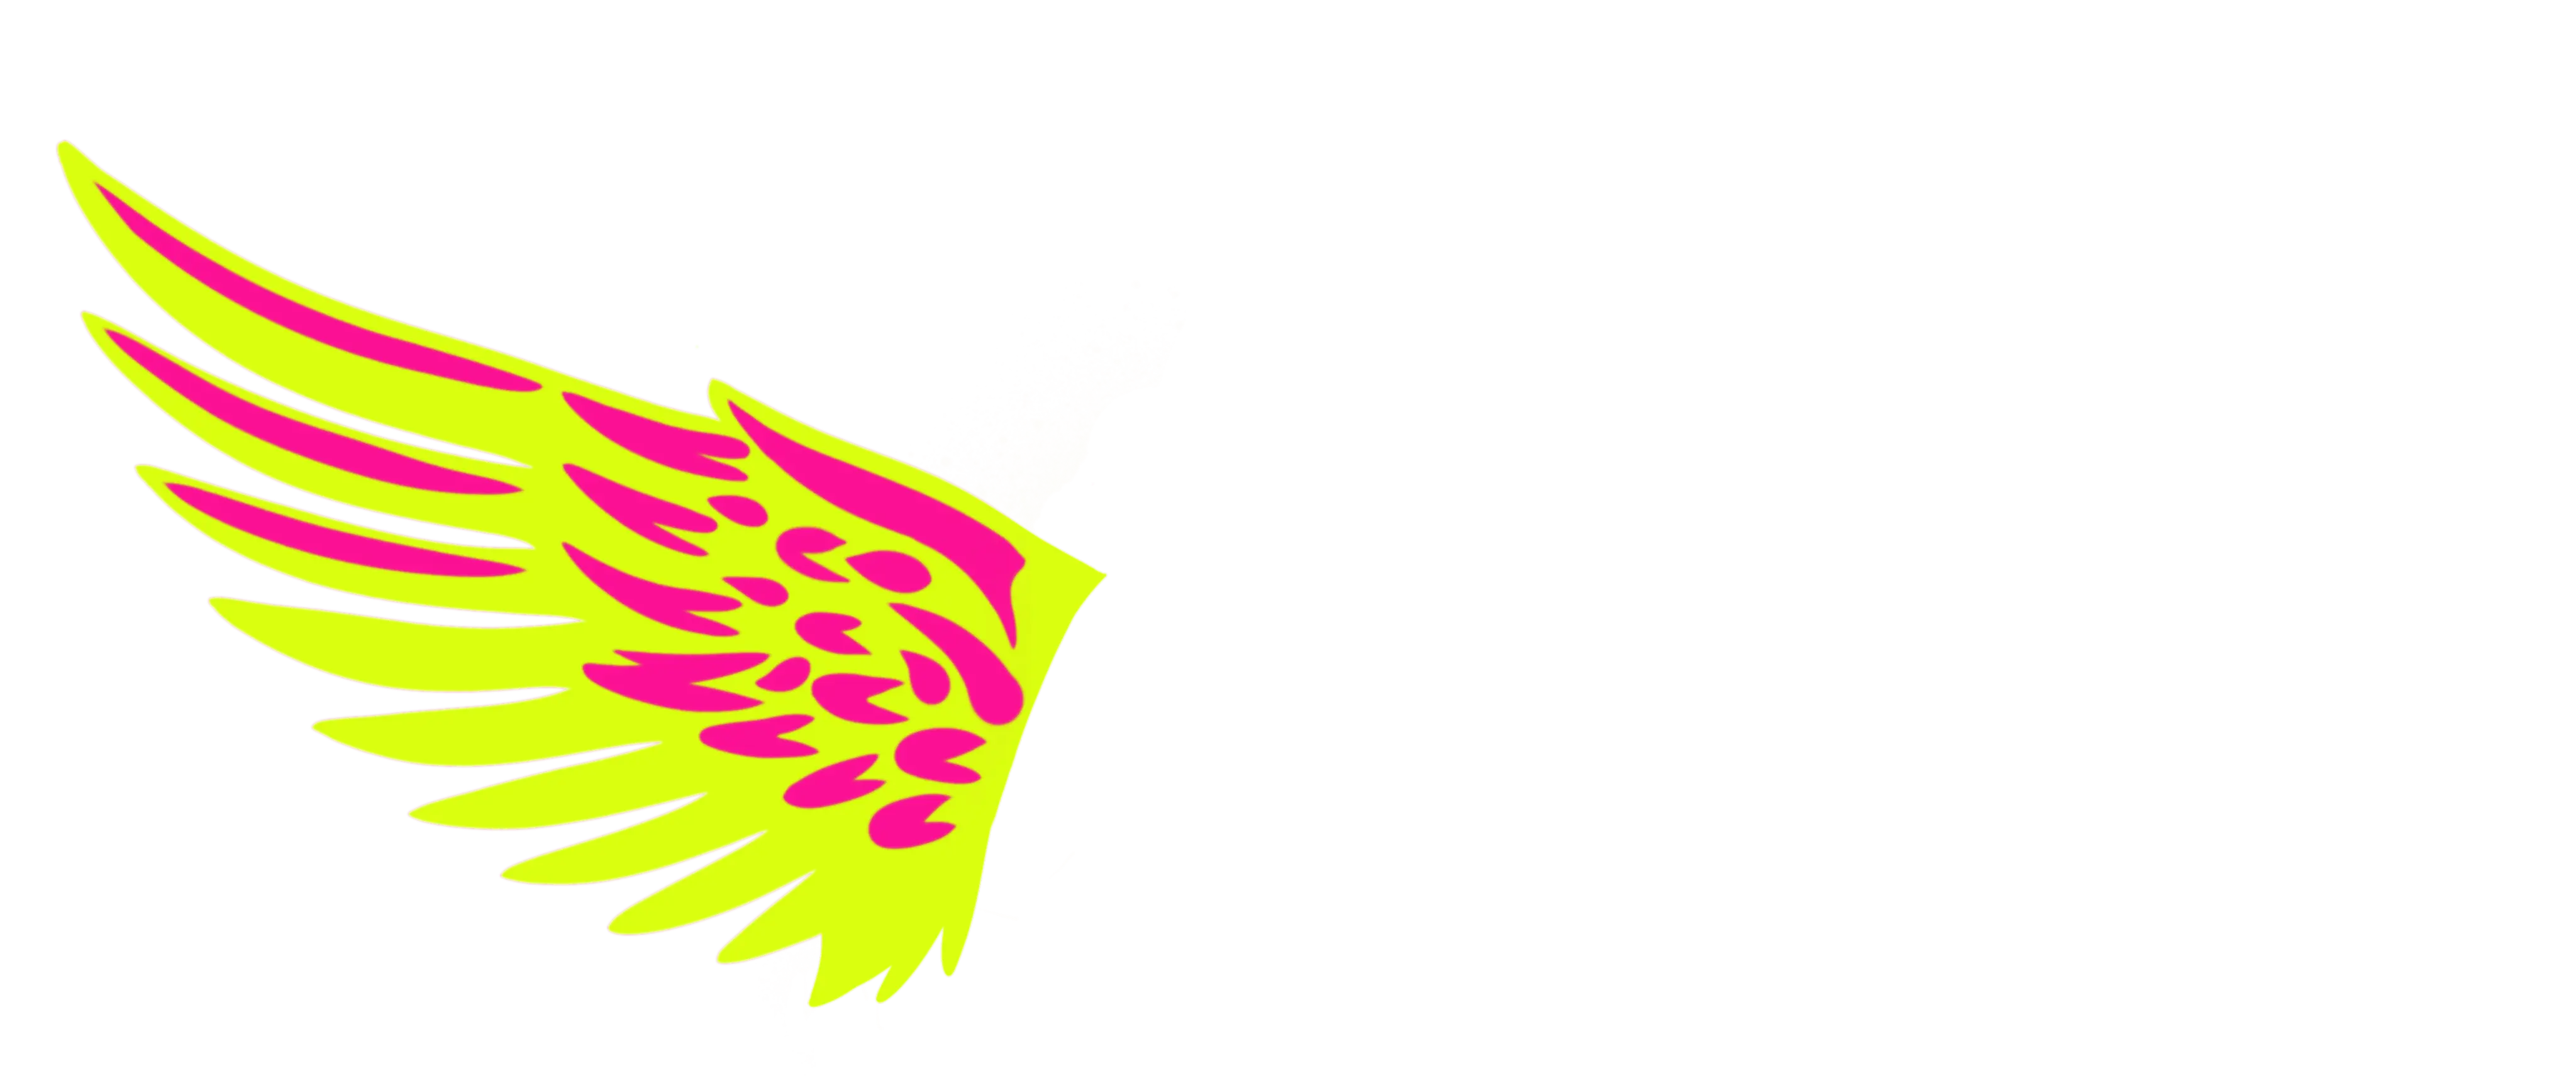
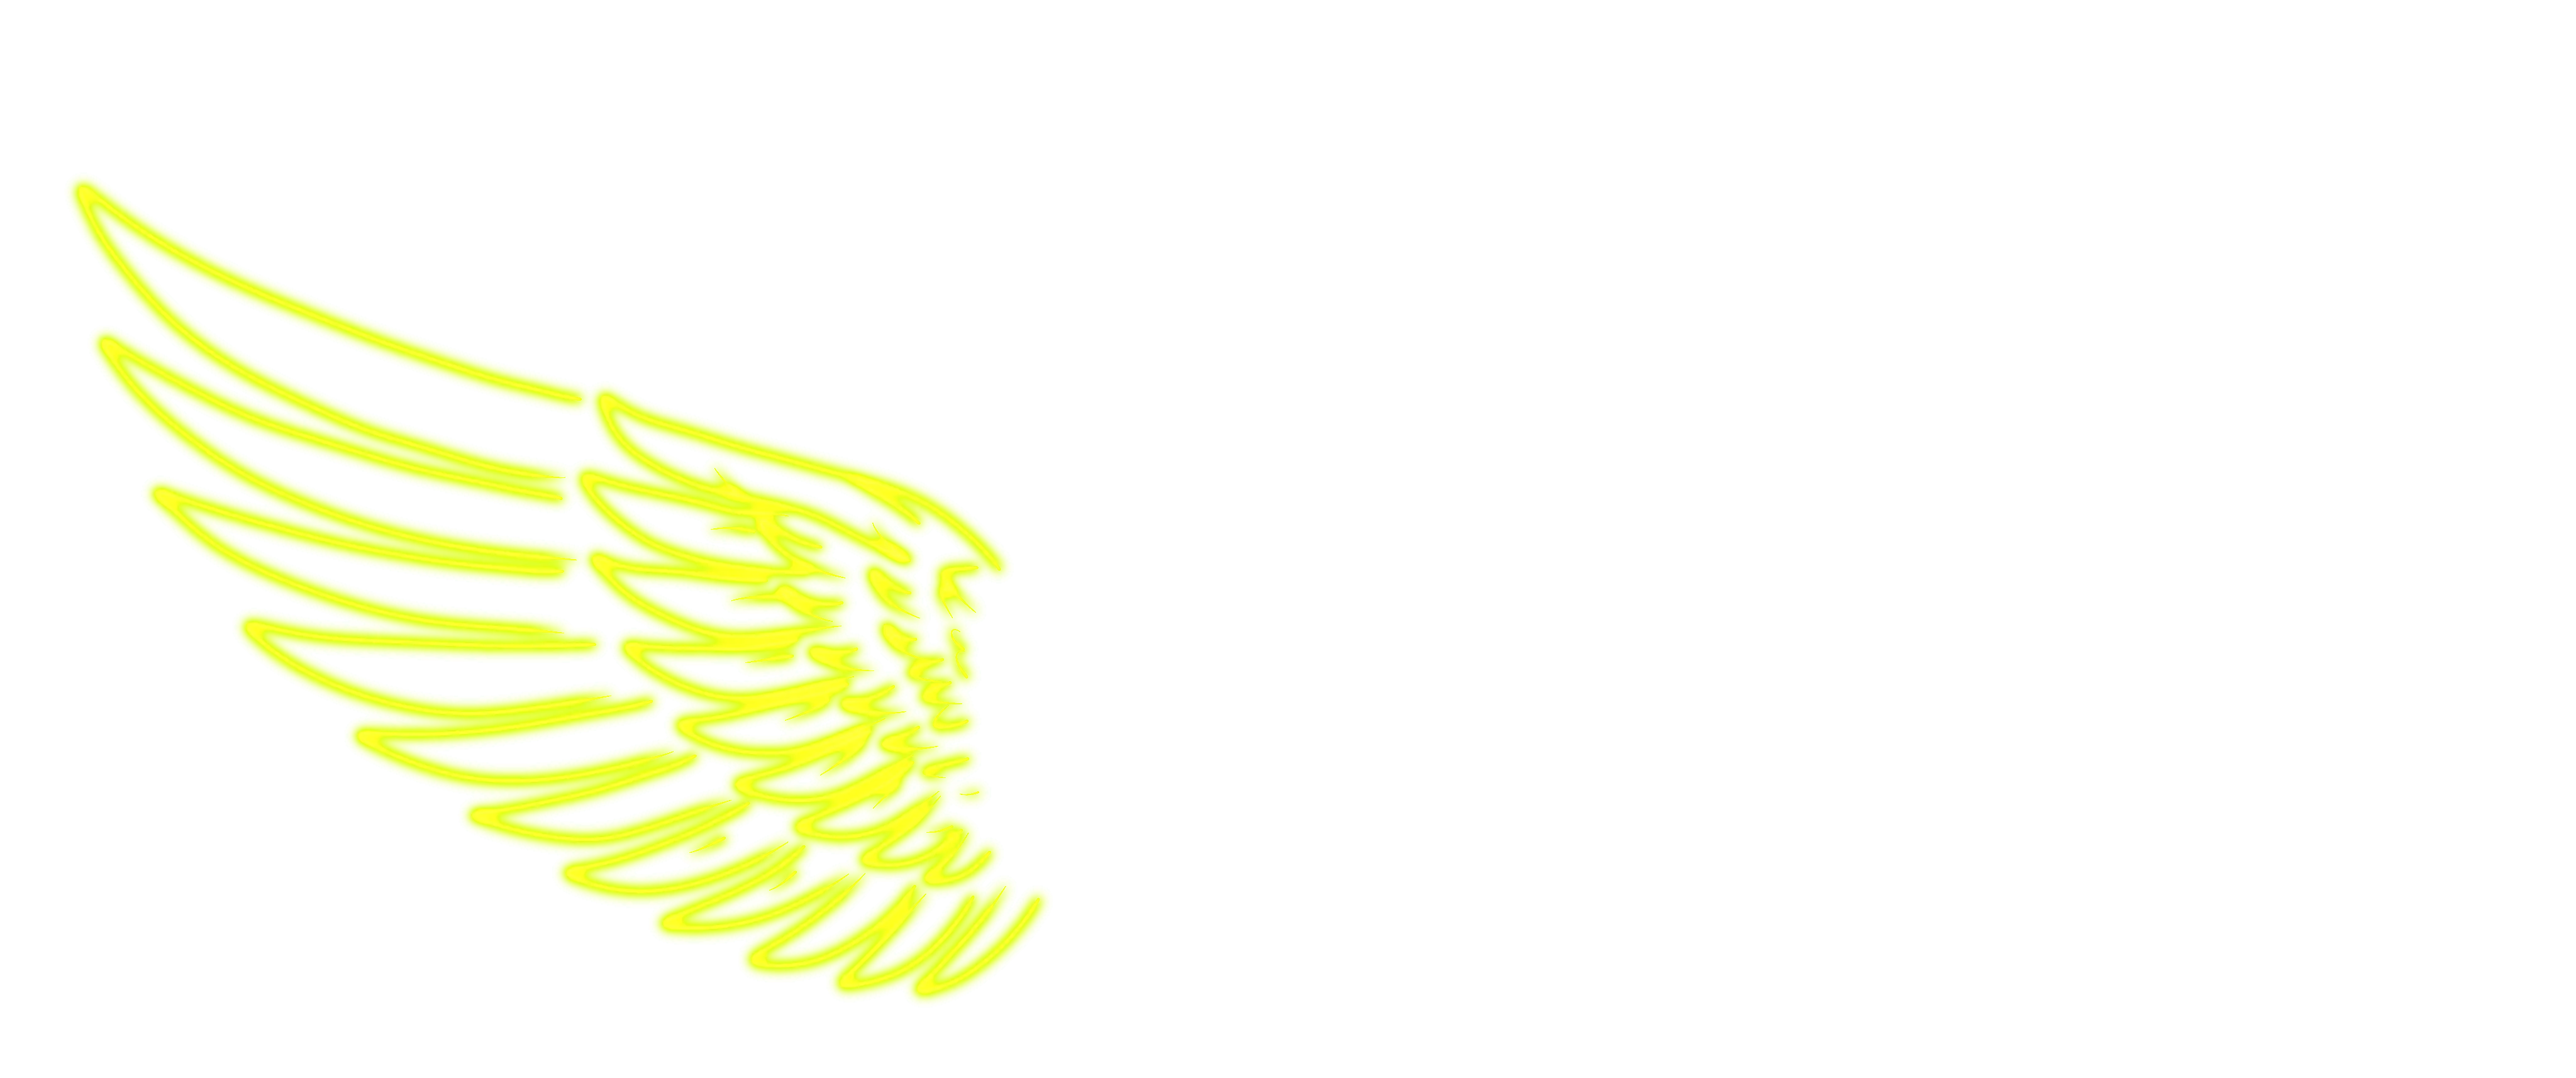
June Update

Changed region(s): [[0.0, 0.1237, 0.4375, 0.9277]]

diff --git a/frontend/src/App.tsx b/frontend/src/App.tsx
@@ -82,7 +82,7 @@ function App() {
             fontFamily: "'Klein Condensed', sans-serif",
             fontWeight: 800,
             fontSize: "12rem",
-            letterSpacing: "-0.02em"
+            letterSpacing: "-0.03em"
           }}
         >
           {/* Invisible text for Placeholder */}
@@ -101,19 +101,20 @@ function App() {
             </span>
           )}
         </h1>
+        
         <div className="relative z-10 mt-4 flex items-center justify-center">
           <img
             src={wingLeft}
             alt=""
             className="absolute object-contain mix-blend-screen"
-            style={{ height: '475px', maxWidth: 'none', maxHeight: 'none', right: '-50%', top: '20%', transform: 'translateY(-50%) translateX(20%)' }}
+            style={{ height: '475px', maxWidth: 'none', maxHeight: 'none', right: '-50%', top: '28%', transform: 'translateY(-50%) translateX(20%)' }}
           />
           <img src={profileImg} alt="Michael L." className="h-80 rounded-full relative z-10" />
           <img
             src={wingRight}
             alt=""
             className="absolute object-contain mix-blend-screen"
-            style={{ height: '475px', maxWidth: 'none', maxHeight: 'none', left: '-50%', top: '20%', transform: 'translateY(-50%) translateX(-20%)' }}
+            style={{ height: '475px', maxWidth: 'none', maxHeight: 'none', left: '-50%', top: '28%', transform: 'translateY(-50%) translateX(-20%)' }}
           />
         </div>
       </section>
@@ -137,7 +138,7 @@ function App() {
                   style={{ fontFamily: "'Inter', sans-serif" }}
                 >
                   <p>
-                    Hi, I’m Michael! I'm currently a 2A BCS Computer Science student at the University of Waterloo.
+                    Hi, I’m Michael! I'm currently a 2A BCS Computer Science + Digital Hardware student at the University of Waterloo.
                     This summer, I'm working at SickKids as a Machine Learning Research Assistant, researching reaction-based generative models
                     for drug discovery. My primary interests are in Embedded Systems, Machine Learning, and Computer Vision.
                   </p>
@@ -195,7 +196,7 @@ function App() {
                 </CardContainer>
               </div>
               {/* Dot */}
-              <div className="timeline-dot absolute left-1/2 -translate-x-1/2 w-6 h-6 rounded-full bg-[#FF1493] z-10" />
+              <div className="timeline-dot absolute left-1/2 -translate-x-1/2 w-6 h-6 rounded-full bg-[#daff0f] z-10" />
               <div className="timeline-img w-1/2 pl-12">
                 <img src={sickKidsHospital} alt="SickKids Hospital" className="w-full rounded-2xl object-cover h-48" loading="lazy" />
               </div>
@@ -207,7 +208,7 @@ function App() {
                 <img src={wataiImage} alt="WAT.ai" className="w-full rounded-2xl object-cover h-48" loading="lazy" />
               </div>
               {/* Dot */}
-              <div className="timeline-dot absolute left-1/2 -translate-x-1/2 w-6 h-6 rounded-full bg-[#FF1493] z-10" />
+              <div className="timeline-dot absolute left-1/2 -translate-x-1/2 w-6 h-6 rounded-full bg-[#daff0f] z-10" />
               <div className="timeline-card timeline-card-right w-1/2 pl-12">
                 <CardContainer className="w-full" containerClassName="py-0 w-full">
                   <CardBody className="w-full">
@@ -255,7 +256,7 @@ function App() {
                 </CardContainer>
               </div>
               {/* Dot */}
-              <div className="timeline-dot absolute left-1/2 -translate-x-1/2 w-6 h-6 rounded-full bg-[#FF1493] z-10" />
+              <div className="timeline-dot absolute left-1/2 -translate-x-1/2 w-6 h-6 rounded-full bg-[#daff0f] z-10" />
               <div className="timeline-img w-1/2 pl-12">
                 <img src={utcImage} alt="Unionville Tennis Club" className="w-full rounded-2xl object-cover h-48" loading="lazy" />
               </div>
@@ -431,7 +432,7 @@ function App() {
                 </CardContainer>
               </div>
               {/* Dot */}
-              <div className="timeline-dot absolute left-1/2 -translate-x-1/2 w-6 h-6 rounded-full bg-[#FF1493] z-10" />
+              <div className="timeline-dot absolute left-1/2 -translate-x-1/2 w-6 h-6 rounded-full bg-[#daff0f] z-10" />
               <div className="timeline-img w-1/2 pl-12">
                 <img src={waterlooimage} alt="waterloo" className="w-full rounded-2xl object-cover h-48" loading="lazy" />
               </div>
@@ -443,7 +444,7 @@ function App() {
                 <img src={bcssImage} alt="bcss" className="w-full h-48 object-cover rounded-2xl" loading="lazy" />
               </div>
               {/* Dot */}
-              <div className="timeline-dot absolute left-1/2 -translate-x-1/2 w-6 h-6 rounded-full bg-[#FF1493] z-10" />
+              <div className="timeline-dot absolute left-1/2 -translate-x-1/2 w-6 h-6 rounded-full bg-[#daff0f] z-10" />
               <div className="timeline-card timeline-card-right w-1/2 pl-12">
                 <CardContainer className="w-full" containerClassName="py-0 w-full">
                   <CardBody className="w-full">
@@ -516,7 +517,7 @@ function App() {
                 </CardContainer>
               </div>
               {/* Dot */}
-              <div className="timeline-dot absolute left-1/2 -translate-x-1/2 w-6 h-6 rounded-full bg-[#FF1493] z-10" />
+              <div className="timeline-dot absolute left-1/2 -translate-x-1/2 w-6 h-6 rounded-full bg-[#daff0f] z-10" />
               <div className="timeline-img w-1/2 pl-12">
                 <img src={xcteam} alt="Placeholder" className="w-full rounded-2xl object-cover h-48" loading="lazy" />
               </div>
@@ -528,7 +529,7 @@ function App() {
                 <img src={uttcTeam} alt="Placeholder" className="w-full rounded-2xl object-cover h-48" loading="lazy" />
               </div>
               {/* Dot */}
-              <div className="timeline-dot absolute left-1/2 -translate-x-1/2 w-6 h-6 rounded-full bg-[#FF1493] z-10" />
+              <div className="timeline-dot absolute left-1/2 -translate-x-1/2 w-6 h-6 rounded-full bg-[#daff0f] z-10" />
               <div className="timeline-card timeline-card-right w-1/2 pl-12">
                 <CardContainer className="w-full" containerClassName="py-0 w-full">
                   <CardBody className="w-full">
@@ -576,7 +577,7 @@ function App() {
                 </CardContainer>
               </div>
               {/* Dot */}
-              <div className="timeline-dot absolute left-1/2 -translate-x-1/2 w-6 h-6 rounded-full bg-[#FF1493] z-10" />
+              <div className="timeline-dot absolute left-1/2 -translate-x-1/2 w-6 h-6 rounded-full bg-[#daff0f] z-10" />
               <div className="timeline-img w-1/2 pl-12">
                 <img src={avivaCentre} alt="Placeholder" className="w-full rounded-2xl object-cover h-48" loading="lazy" />
               </div>

diff --git a/frontend/src/components/WormholeBackground.tsx b/frontend/src/components/WormholeBackground.tsx
@@ -15,10 +15,10 @@ type HoleBackgroundProps = React.ComponentProps<'div'> & {
 };
 
 function HoleBackground({
-  strokeColor = '#737373',
+  strokeColor = '#ffe600',
   numberOfLines = 50,
   numberOfDiscs = 50,
-  particleRGBColor = [255, 255, 255],
+  particleRGBColor = [255, 230, 0],
   className,
   children,
   ...props
@@ -328,7 +328,7 @@ function HoleBackground({
       className={cn(
         'relative size-full overflow-hidden',
         'before:content-[""] before:absolute before:top-1/2 before:left-1/2 before:block before:size-[140%] dark:before:[background:radial-gradient(ellipse_at_50%_55%,transparent_10%,black_50%)] before:[background:radial-gradient(ellipse_at_50%_55%,transparent_10%,white_50%)] before:[transform:translate3d(-50%,-50%,0)]',
-        'after:content-[""] after:absolute after:z-[5] after:top-1/2 after:left-1/2 after:block after:size-full after:[background:radial-gradient(ellipse_at_50%_75%,#a900ff_20%,transparent_75%)] after:[transform:translate3d(-50%,-50%,0)] after:mix-blend-overlay',
+        'after:content-[""] after:absolute after:z-[5] after:top-1/2 after:left-1/2 after:block after:size-full after:[background:radial-gradient(ellipse_at_50%_75%,#ffe600_20%,transparent_75%)] after:[transform:translate3d(-50%,-50%,0)] after:mix-blend-overlay',
         className,
       )}
       {...props}
@@ -336,12 +336,12 @@ function HoleBackground({
       {children}
       <canvas
         ref={canvasRef}
-        className="absolute inset-0 block size-full dark:opacity-20 opacity-10"
+        className="absolute inset-0 block size-full dark:opacity-5 opacity-5"
       />
       <motion.div
-        className="absolute top-[-71.5%] left-1/2 z-[3] w-[30%] h-[140%] rounded-b-full blur-3xl opacity-30 dark:mix-blend-plus-lighter mix-blend-plus-darker [transform:translate3d(-50%,0,0)] [background-size:100%_200%]"
+        className="absolute top-[-71.5%] left-1/2 z-[3] w-[30%] h-[140%] rounded-b-full blur-3xl opacity-10 dark:mix-blend-plus-lighter mix-blend-plus-darker [transform:translate3d(-50%,0,0)] [background-size:100%_200%]"
         style={{
-          background: 'linear-gradient(20deg, #ffbd1e, rgba(254,132,143,0.12) 16.5%, #fe848f 33%, rgba(254,132,143,0.12) 49.5%, #ffbd1e 66%, rgba(255,189,30,0.38) 85.5%, #fe848f 100%)',
+          background: 'linear-gradient(20deg, #ffe600, rgba(255,230,0,0.12) 16.5%, #ffe600 33%, rgba(255,230,0,0.12) 49.5%, #ffe600 66%, rgba(255,230,0,0.38) 85.5%, #ffe600 100%)',
           backgroundSize: '100% 200%',
           backgroundPosition: '0% 100%',
         }}